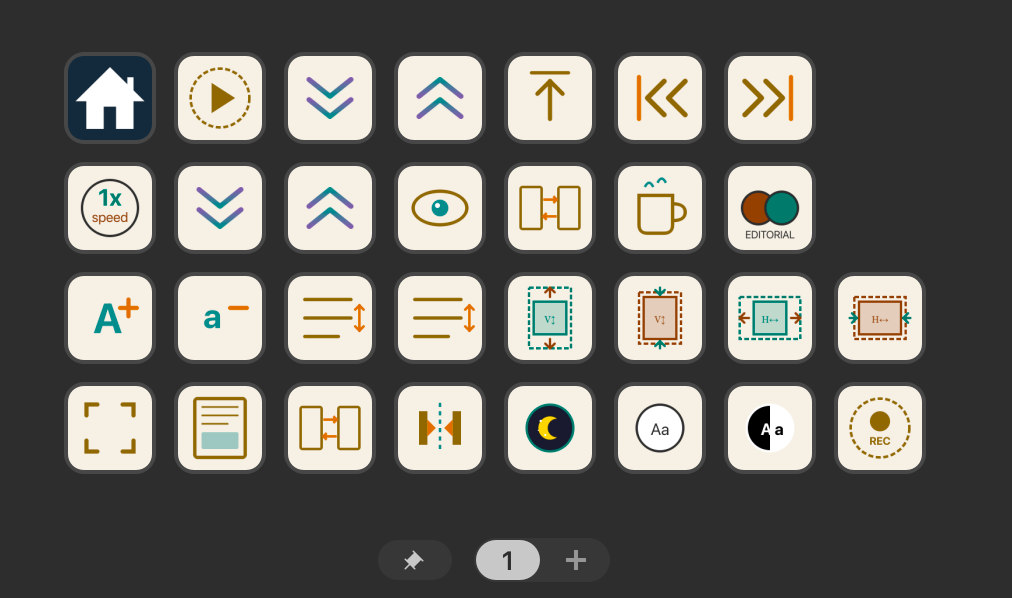
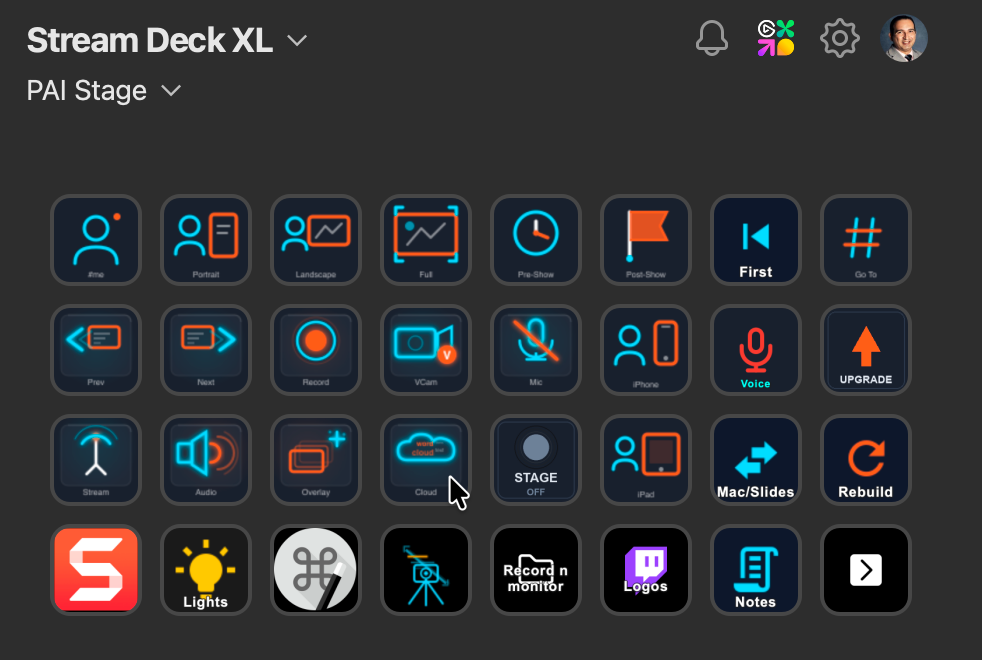
docs: refresh README screenshots with redesigned UI
- main-interface: animated reading view (Lucide toolbar, eyeline, voice-track)
- mobile-remote: re-skinned purple T+ remote, Connected state
- stream-deck: semantic-color T+ keys
- settings: native Connection tab (server status + config)

diff --git a/README.md b/README.md
@@ -46,7 +46,7 @@ Teleprompter Plus turns any Obsidian note into a professional teleprompter. Auto
 ### Main interface
 
 <p align="center">
-  <img src="docs/screenshots/main-interface.png" alt="Main teleprompter interface" width="800">
+  <img src="docs/screenshots/main-interface.gif" alt="Main teleprompter interface" width="800">
 </p>
 
 *Clean reading display with hierarchical navigation panel, eyeline guide, and real-time position tracking.*
@@ -54,7 +54,7 @@ Teleprompter Plus turns any Obsidian note into a professional teleprompter. Auto
 ### Mobile remote
 
 <p align="center">
-  <img src="docs/screenshots/mobile-remote.png" alt="Mobile remote interface" width="400">
+  <img src="docs/screenshots/mobile-remote.gif" alt="Mobile remote interface" width="360">
 </p>
 
 *Touch-friendly remote — phone, tablet, or second computer on the same network.*
